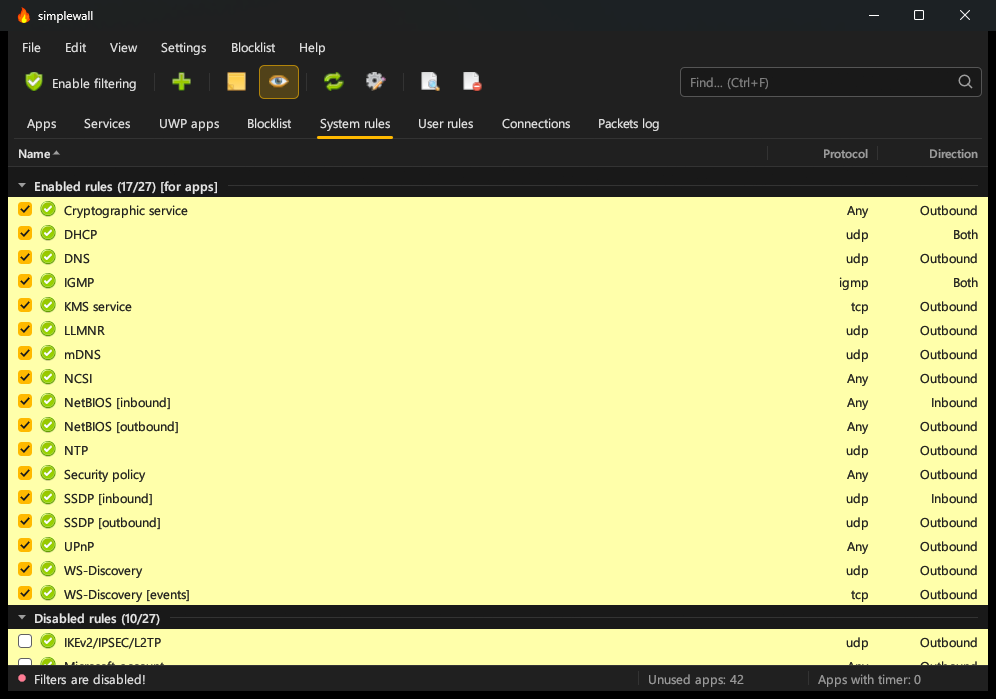
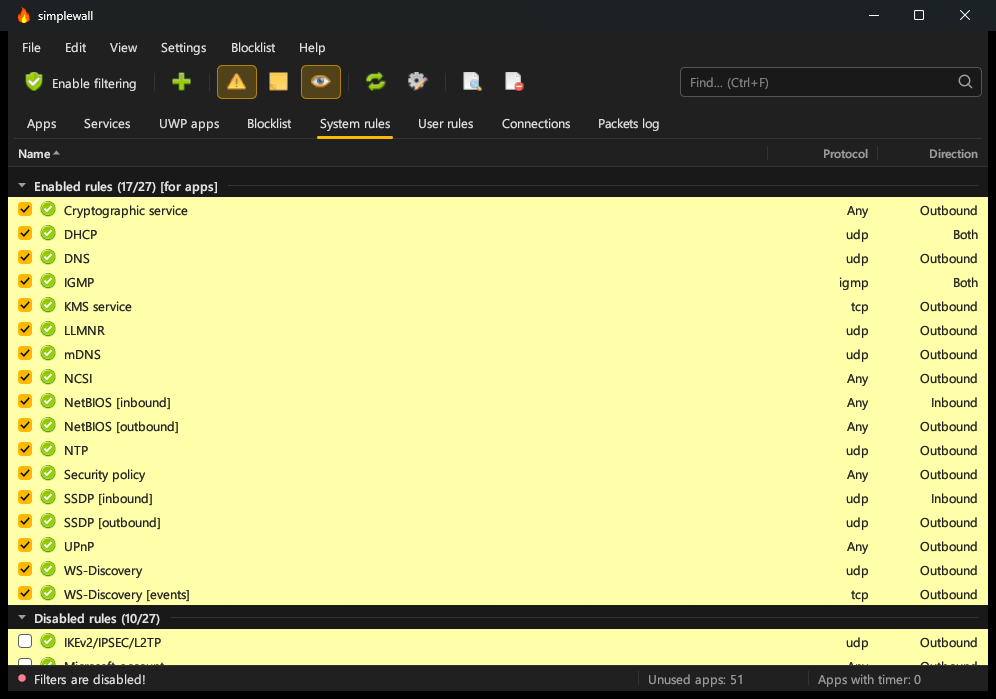
Document the ported features and refresh the preview.
The README now covers the tray, notifications, filter options, security
checks, the connection monitor, the logs, profile import and export,
themes, and languages. The not-carried-over list is down to what is
actually missing. The preview shows the toolbar's notifications button.

Changed region(s): [[0.2179, 0.0901, 0.4357, 0.1502], [0.4669, 0.0901, 0.5291, 0.1502], [0.7159, 0.9614, 0.747, 0.9914]]

diff --git a/README.md b/README.md
@@ -7,6 +7,7 @@ The original program is GPL-3.0. This port is GPL-3.0 as well. See `LICENSE`.
 
 simplewall configures the Windows Filtering Platform. It does not talk to the Windows Firewall service.
 Filters use the original provider `B0D553E2-C6A0-4A9A-AEB8-C752483ED62F` and sublayer `9FEE6F59-B951-4F9A-B52F-133DCF7A4279`. **Disable filtering** removes filters owned by that provider.
+
 ## Build
 
 ```
@@ -35,20 +36,21 @@ The layout follows the original: a menu bar (File, Edit, View, Settings, Blockli
 - Toolbar buttons, left to right:
   - Enable or disable filtering. It asks first, and also offers "Until reboot".
   - Create rule.
-  - Log to file, and log to UI (the Packets log).
-  - Refresh.
-  - Settings.
+  - Notifications, log to file, and log to UI (the Packets log).
+  - Refresh, and Settings.
   - Show log, and clear log.
 - Lists are grouped the same way as the original:
   - Apps: "Apps with internet access", "Apps with timer", "Apps with user rules", "Apps without internet access".
   - Rules: "Enabled rules [for all]", "Enabled rules [for apps]", "Disabled rules".
   - Click a column header to sort. Click a group header to collapse it.
-- Rows use the original highlight colors:
-  - Yellow: the rule applies to specific apps.
+- Rows use the original highlight colors, each of which can be turned off in Settings > Appearance:
   - Red: the file is missing, or the rule has a syntax error.
-  - Blue: a system app.
+  - Pink: the app has an active connection.
+  - Green: the app is digitally signed.
+  - Yellow: the rule applies to specific apps.
   - Gray: a pinned app.
-- Double-click or Enter opens the rule editor or the app properties. Right-click has timers, pin, open file location, copy, and delete.
+  - Blue: a system app or service.
+- Double-click or Enter opens the rule editor or the app properties. Right-click has timers, pin, open containing folder, copy, and delete.
 - Keyboard shortcuts:
 
   | Keys | Action |
@@ -61,34 +63,72 @@ The layout follows the original: a menu bar (File, Edit, View, Settings, Blockli
   | Space | Check or uncheck the row |
   | Del | Delete |
   | Ctrl+C | Copy |
-  | Ctrl+E | Open file location |
+  | Ctrl+E | Open containing folder |
+  | Ctrl+I | Show log |
+  | Ctrl+X | Clear log (asks first) |
   | Ctrl+Shift+X | Purge unused apps (asks first) |
   | Ctrl+Shift+T | Purge timers |
 - Search matches a substring. Start it with `re:` to search with a regular expression.
-- The accent color follows the Windows accent color. The font is Segoe UI.
+- The theme is dark, light, or the same as Windows. The accent color follows the Windows accent color.
+- The window is in the original's 29 languages (Settings > General > Language), from its language file. Labels worded as in the original are translated; wording new to this port stays English.
+- The last tab, sort order, and window size are kept for next time.
 
 Filter installs run on a background thread, so the window does not freeze while 1,500 blocklist rules are applied.
 
+## Tray and notifications
+
+- simplewall has a tray icon, with the original's menu: Show/Hide, Enable or Disable filters, Notifications, Packets log, Settings, Website, About, and Exit. The icon shows whether filters are on.
+- Minimizing sends the window to the tray. A second launch brings the running window back.
+- Exiting while filters are on asks first. Filters keep working after simplewall exits.
+- When an app that is not allowed tries to connect, a notification appears above the tray. It shows the app, its signer, the address, host name, port, protocol, and time, with Allow, Allow for a set time, Block, and a menu with Create rule, Open containing folder, Kill process, and Disable notifications for this app. Block stops further notifications for that app. The same app waits 60 seconds between notifications, and the sound is skipped while a full-screen app is in front.
+- Apps seen in blocked connections are added to the list automatically.
+- Settings > General has Load on system startup, Start minimized, and Skip UAC warning. The two startup options use Task Scheduler with highest privileges, so no UAC prompt appears.
+
 ## Filtering
 
-Checked apps are permitted. A lowest-weight block filter drops every other ALE connect and receive. Loopback and IPv6 neighbor discovery are permitted by default. This executable is always permitted, so the program can still remove its own filters. Internal system, blocklist, and custom rules are loaded from `resources/profile_internal.xml` (the upstream file).
+Checked apps are permitted. A lowest-weight block filter drops every other ALE connect and receive. This executable is always permitted, so the program can still remove its own filters. Internal system, blocklist, and custom rules are loaded from `resources/profile_internal.xml` (the upstream file).
 
 - Each app is matched the way the original matches it:
   - Services: the service SID.
   - UWP apps: the package SID.
   - Kernel traffic: the `System` app id.
+- Settings > Filters has the original's options:
+  - Allow loopback, IPv6 (6to4 and neighbor discovery), and local network (LAN).
+  - Block outbound and block inbound connections. Both are on by default.
+  - Stealth mode, on by default: port scans get no reply.
+  - Boot-time filters, on by default: filtering starts before the filter engine loads at boot. Allow IP forwarding keeps Mobile Hotspot and Internet Connection Sharing working.
+  - Disable internal rules, to install only your own.
 - Blocklist groups each have Disable, Allow, or Block, from the Blocklist menu or Settings:
   - Microsoft spying and telemetry. Default: Block.
   - Microsoft update. Default: Disable.
   - Microsoft applications. Default: Disable.
+- Apps can be assigned to the built-in system rules in the rule editor, as in the original.
 - "Until reboot" filters are not persistent. They stay installed until Windows restarts.
-- Timers allow an app until the time runs out, then block it again. Turning a timer off also blocks the app. Timers only count down while the window is open, so closing simplewall with filters on and timers running asks to end them first.
+- Timers allow an app until the time runs out, then block it again. Turning a timer off also blocks the app. Timers only count down while simplewall runs; it can sit in the tray. Exiting with timers running asks to end them first.
 - Per-user service instances (such as `CDPUserSvc_1a2b3`) get a new name at every sign-in, so they are not listed. Allow `svchost.exe` to cover them.
-- The Packets log reads dropped connections from the WFP net event buffer. It lists only drops caused by simplewall's own filters.
 
-User and custom allow rules sit above the blocklist. To let a blocklist entry win, turn off "User rules take priority over the blocklist". "Allow local network (LAN)" permits private, link-local, and multicast ranges.
+User and custom allow rules sit above the blocklist. To let a blocklist entry win, turn off "User rules take priority over the blocklist".
+
+## Security checks
+
+- Digital signatures are checked for every app, through the file's own signature or the Windows catalog. The signer shows in the tooltip and in notifications. Online revocation checks are optional.
+- With "Check apps for sha-256 hash" on, an allowed app is blocked again if its file changes on disk. It is checked every 10 minutes.
+
+## Connections and logs
+
+- The Connections tab refreshes every 2 seconds. It lists every TCP state and UDP endpoint, with host names for remote addresses, and optionally the connections of processes that have exited.
+- The Packets log updates live with connections simplewall blocked.
+- Log to file writes the original's CSV columns to `%USERPROFILE%\simplewall.csv`. The file starts over at a size limit (1 MB by default). Port scans blocked by stealth mode are left out of both logs unless you turn that off.
+
+## Profile
 
 Create `simplewall.ini` next to the executable to store `profile.xml` in that folder. Otherwise the profile is `%ProgramData%\simplewall-rust\profile.xml`, which still exists after reboot when Administrator Protection isolates the elevated account. If the ProgramData file is not there yet, an older `%APPDATA%\simplewall-rust\profile.xml` is read once.
+
+- The first run imports the original simplewall's profile from `%APPDATA%\Henry++\simplewall\profile.xml`, if there is one.
+- File > Import reads this port's profile or the original's, plain, compressed, or encrypted. File > Export saves the profile anywhere.
+- A day-old copy is kept as `profile.xml.bak`, and is used if the profile cannot be read.
+
+## Releases
 
 Releases have three assets, all built on GitHub by the `release` workflow, not on a workstation:
 
@@ -96,18 +136,31 @@ Releases have three assets, all built on GitHub by the `release` workflow, not o
 - `simplewall-<version>-setup.msi`: the Windows Installer package. Use it for Group Policy or Intune, or silently with `msiexec /i simplewall-<version>-setup.msi /qn`. A newer MSI upgrades an older one in place.
 - `simplewall-<version>-bin.zip`: the portable build.
 
-Install with one installer, not both; they use the same folder. Uninstalling leaves filters installed, so turn filtering off first. To publish, push a `v*` tag, or run the workflow, which takes the version from `Cargo.toml`.
+Install with one installer, not both; they use the same folder. Uninstalling leaves filters installed, so turn filtering off first. To publish, push a `v*` tag, or run the workflow, which takes the version from `Cargo.toml`. simplewall checks for a newer release once a day, and Help > Check for updates checks right away.
 
 ## What this port covers
 
 | C module | Rust |
 | --- | --- |
-| `wfp.c`: provider, sublayer, loopback, IPv6 bootstrap, app permits, block-all, transactions, net events | `src/wfp.rs` |
-| `db.c` / `profile.c`: internal rules, blocklist states, the user profile | `src/profile.rs` |
+| `wfp.c`: provider, sublayer, global filters (loopback, IPv6, stealth, boot-time, block-all), app permits, rules, transactions | `src/wfp.rs` |
+| `log.c`: net event subscription, packets log, log file | `src/netevents.rs`, `src/ui/mod.rs` |
+| `notifications.c`: notification window | `src/ui/notify.rs` |
+| `db.c` / `profile.c`: internal rules, blocklist states, the user profile, SWC decoding | `src/profile.rs`, `src/swc.rs` |
+| `helper.c`: signatures and file hashes | `src/security.rs` |
+| `network.c`: connection monitor | `src/log.rs`, `src/ui/monitor.rs` |
 | Rule syntax from the readme | `src/rules.rs` |
-| `network.c`: endpoint tables | `src/log.rs` |
 | Process, service, and UWP package inventory | `src/apps.rs` |
+| Tray icon | `src/tray.rs` |
+| Autorun and skip UAC | `src/autorun.rs` |
+| Update check | `src/update.rs` |
+| Language files | `src/i18n.rs` |
 | `main.c`: command line | `src/cli.rs` |
 | Win32 dialogs and list views | `src/ui/` (egui) |
 
-Not carried over: the tray icon, notification popups, encrypted `SWC` profiles, silent-drop callouts, file signature checks, and the donate button.
+Not carried over:
+
+- Saving profiles compressed or encrypted. They can be read, but are saved as plain XML.
+- The Windows Update fix. It is not needed, because services are matched by SID: allow `wuauserv`, `DoSvc`, and `UsoSvc` on the Services tab.
+- Per-connection UDP traffic statistics.
+- List view options: icon size, view type, and column auto-size.
+- The donate button.
